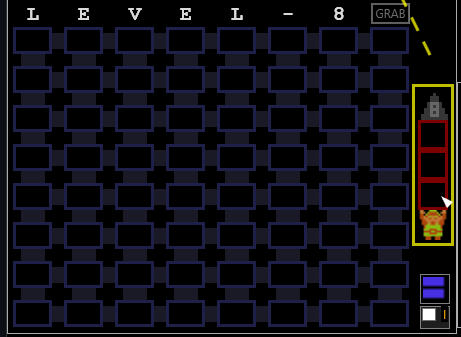
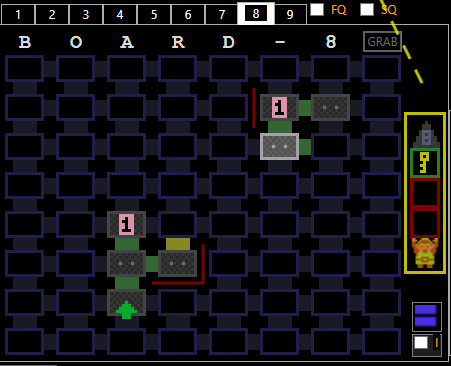
mouse hover feedback on dungeon doors/rooms, to improve targetting reorganize dungeon tracker docs a little

diff --git a/doc/use.md b/doc/use.md
@@ -14,11 +14,11 @@ Contents of this document:
 - [Main Z-Tracker Window](#main)
   - ![Main Z-Tracker Window screenshot](screenshots/overview-smaller.png)
   - [Dungeon Item Area](#main-dia)
+    - [Starting Items or Extra Drops](#main-sioed)
   - [Other Item Area](#main-oia)
   - [Link (specific routing)](#main-link)
   - [Overworld Map](#main-owm)
   - [Dungeon Tracker](#main-dt)
-    - [Starting Items or Extra Drops](#main-sioed)
   - [Dungeon Rooms](#main-dr)
   - [Blockers](#main-blockers)
   - [Notes](#main-notes)
@@ -287,8 +287,13 @@ shows the possible locations for that dungeon or sword cave.  Hint-halo-highligh
 There are 9 tabs for the 9 dungeons.
 
 <a id="dungeon-inset">The right column of each tab has an inset with this dungeon's triforce and items</a>, so you can edit them without having to mouse all the way to the top of the app.
+Other dungeon tracking marks have no semantic meaning to the tracker, and can be used by the player however they see fit.
 
 ![Dungeon inset screenshot](screenshots/dungeon-inset.png)
+
+When your mouse is inside the dungeon map area, the location of that dungeon will be highlighted on the overworld map.
+
+#### Doors
 
 Doors between rooms are simple, and have four states:
 
@@ -299,7 +304,11 @@ Doors between rooms are simple, and have four states:
 
 Clicking a door with its existing-state-mouse-button (e.g. left-clicking a green door) toggles it back into unknown gray.
 
+#### Rooms
+
 Dungeon rooms are somewhat complicated, as there is a lot of state you might want to track.  Read about them in [Dungeon Rooms section](#main-dr).
+
+#### Multiple rooms at once
 
 If you click-and-drag over the dungeon map with left mouse button, you can 'paint' a bunch of completed rooms by dragging over them.  
 Same with right mouse button, but for uncompleted rooms.  
@@ -312,13 +321,11 @@ Sometimes you may mark up a bit of dungeon map, before noticing that (a portion 
 of the dungeon map to switch to 'grab mode', which allows you to pick up entire segments of dungeon rooms and doors and move them at once (cut & paste) to 
 fix an offset map.
 
+#### Vanilla dungeon maps
+
 Non-hidden dungeon numbers: FQ and SQ checkboxes will show First Quest or Second Quest outlines for that dungeon number.
-Hidden dungeon numbers: 'FQ/SQ' button pops up all the vanilla dungeon shape outlines for you to choose from, with hover previews and hinting which ones 
-    are compatible with your current room markup.
-
-Dungeon tracking has no semantic meaning to the tracker, and can be used by the player however they see fit.
-
-When your mouse is inside the dungeon map area, the location of that dungeon will be highlighted on the overworld map.
+Hidden dungeon numbers: 'FQ/SQ' button pops up all the vanilla dungeon shape outlines for you to choose from, with hover previews, and hinting which ones 
+are compatible with your current room markup.
 
 ## <a id="main-dr"></a> Dungeon Rooms
 
